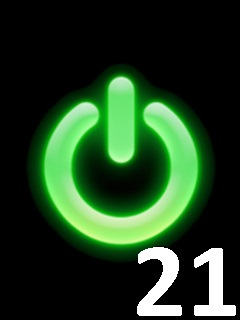
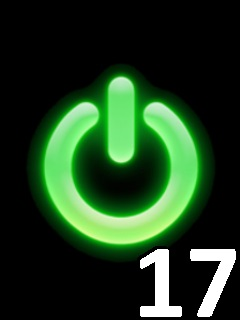
update
upgrade

Changed region(s): [[0.7875, 0.7812, 0.9917, 1.0], [0.5542, 0.75, 0.7583, 1.0]]

diff --git a/index.php b/index.php
@@ -6,26 +6,38 @@
         <meta charset="utf-8" />
         <title>FORLED PANEL</title>
     </head>
-	<H1>
-       FORLED PANEL
-    </H1>
+ 
     <body style="background-color: black;">
     <!-- On/Off button's picture -->
 	<?php
 	$page = $_SERVER['PHP_SELF'];
 	$sec = "10";
 	header("Refresh: $sec; url=$page");
-	$val_array = array(0,0,0,0,0,0,0,0,0,0,0,0,0,0,0,0,0,0,0,0,0,0,0,0);
-	$vystup = array(0,1,2,3,4,5,6,7,8,9,10,11,12,13,14,15,16,21,22,23,24,25,26,27,28,29,30,31);
+	$val_array = array(0,0,0,0,0,0,0,0,0,0,0,0,0,0,0,0,0,0,0,0,0,0,0,0,0,0,0,0,0,0,0,0,0,0,0,0,0,0,0,0);
 	//this php script generate the first page in function of the file
 	for ( $i= 0; $i<17; $i++) {
 		//set the pin's mode to output and read them
-		system("gpio mode ".$vystup[$i]." out");
-		exec ("gpio read ".$vystup[$i], $val_array[$i], $return );
+		system("gpio mode ".$i." out");
+		exec ("gpio read ".$i, $val_array[$i], $return );
+	}
+	for ( $i= 21; $i<28; $i++) {
+		//set the pin's mode to output and read them
+		system("gpio mode ".$i." out");
+		exec ("gpio read ".$i, $val_array[$i], $return );
 	}
 	//for loop to read the value
 	$i =0;
-	for ($i = 0; $i < 24; $i++) {
+	for ($i = 0; $i < 17; $i++) {
+		//if off
+		if ($val_array[$i][0] == 0 ) {
+			echo ("<img id='button_".$i."' src='data/img/red/red_".$i.".jpg' onclick='change_pin (".$i.");'/>");
+		}
+		//if on
+		if ($val_array[$i][0] == 1 ) {
+			echo ("<img id='button_".$i."' src='data/img/green/green_".$i.".jpg' onclick='change_pin (".$i.");'/>");
+		}	 
+	}
+	for ($i = 21; $i < 28; $i++) {
 		//if off
 		if ($val_array[$i][0] == 0 ) {
 			echo ("<img id='button_".$i."' src='data/img/red/red_".$i.".jpg' onclick='change_pin (".$i.");'/>");

diff --git a/gpio.php b/gpio.php
@@ -6,7 +6,23 @@ if (isset ( $_GET["pic"] )) {
 	$pic = strip_tags ($_GET["pic"]);
 	
 	//test if value is a number
-	if ( (is_numeric($pic)) && ($pic <= 23) && ($pic >= 0) ) {
+	if ( (is_numeric($pic)) && ($pic <= 16) && ($pic >= 0) ) {
+		
+		//set the gpio's mode to output		
+		system("gpio mode ".$pic." out");
+		//reading pin's status
+		exec ("gpio read ".$pic, $status, $return );
+		//set the gpio to high/low
+		if ($status[0] == "0" ) { $status[0] = "1"; }
+		else if ($status[0] == "1" ) { $status[0] = "0"; }
+		system("gpio write ".$pic." ".$status[0] );
+		//reading pin's status
+		exec ("gpio read ".$pic, $status, $return );
+		//print it to the client on the response
+		echo($status[0]);
+		
+	}
+	if ( (is_numeric($pic)) && ($pic <= 27) && ($pic >= 21) ) {
 		
 		//set the gpio's mode to output		
 		system("gpio mode ".$pic." out");
